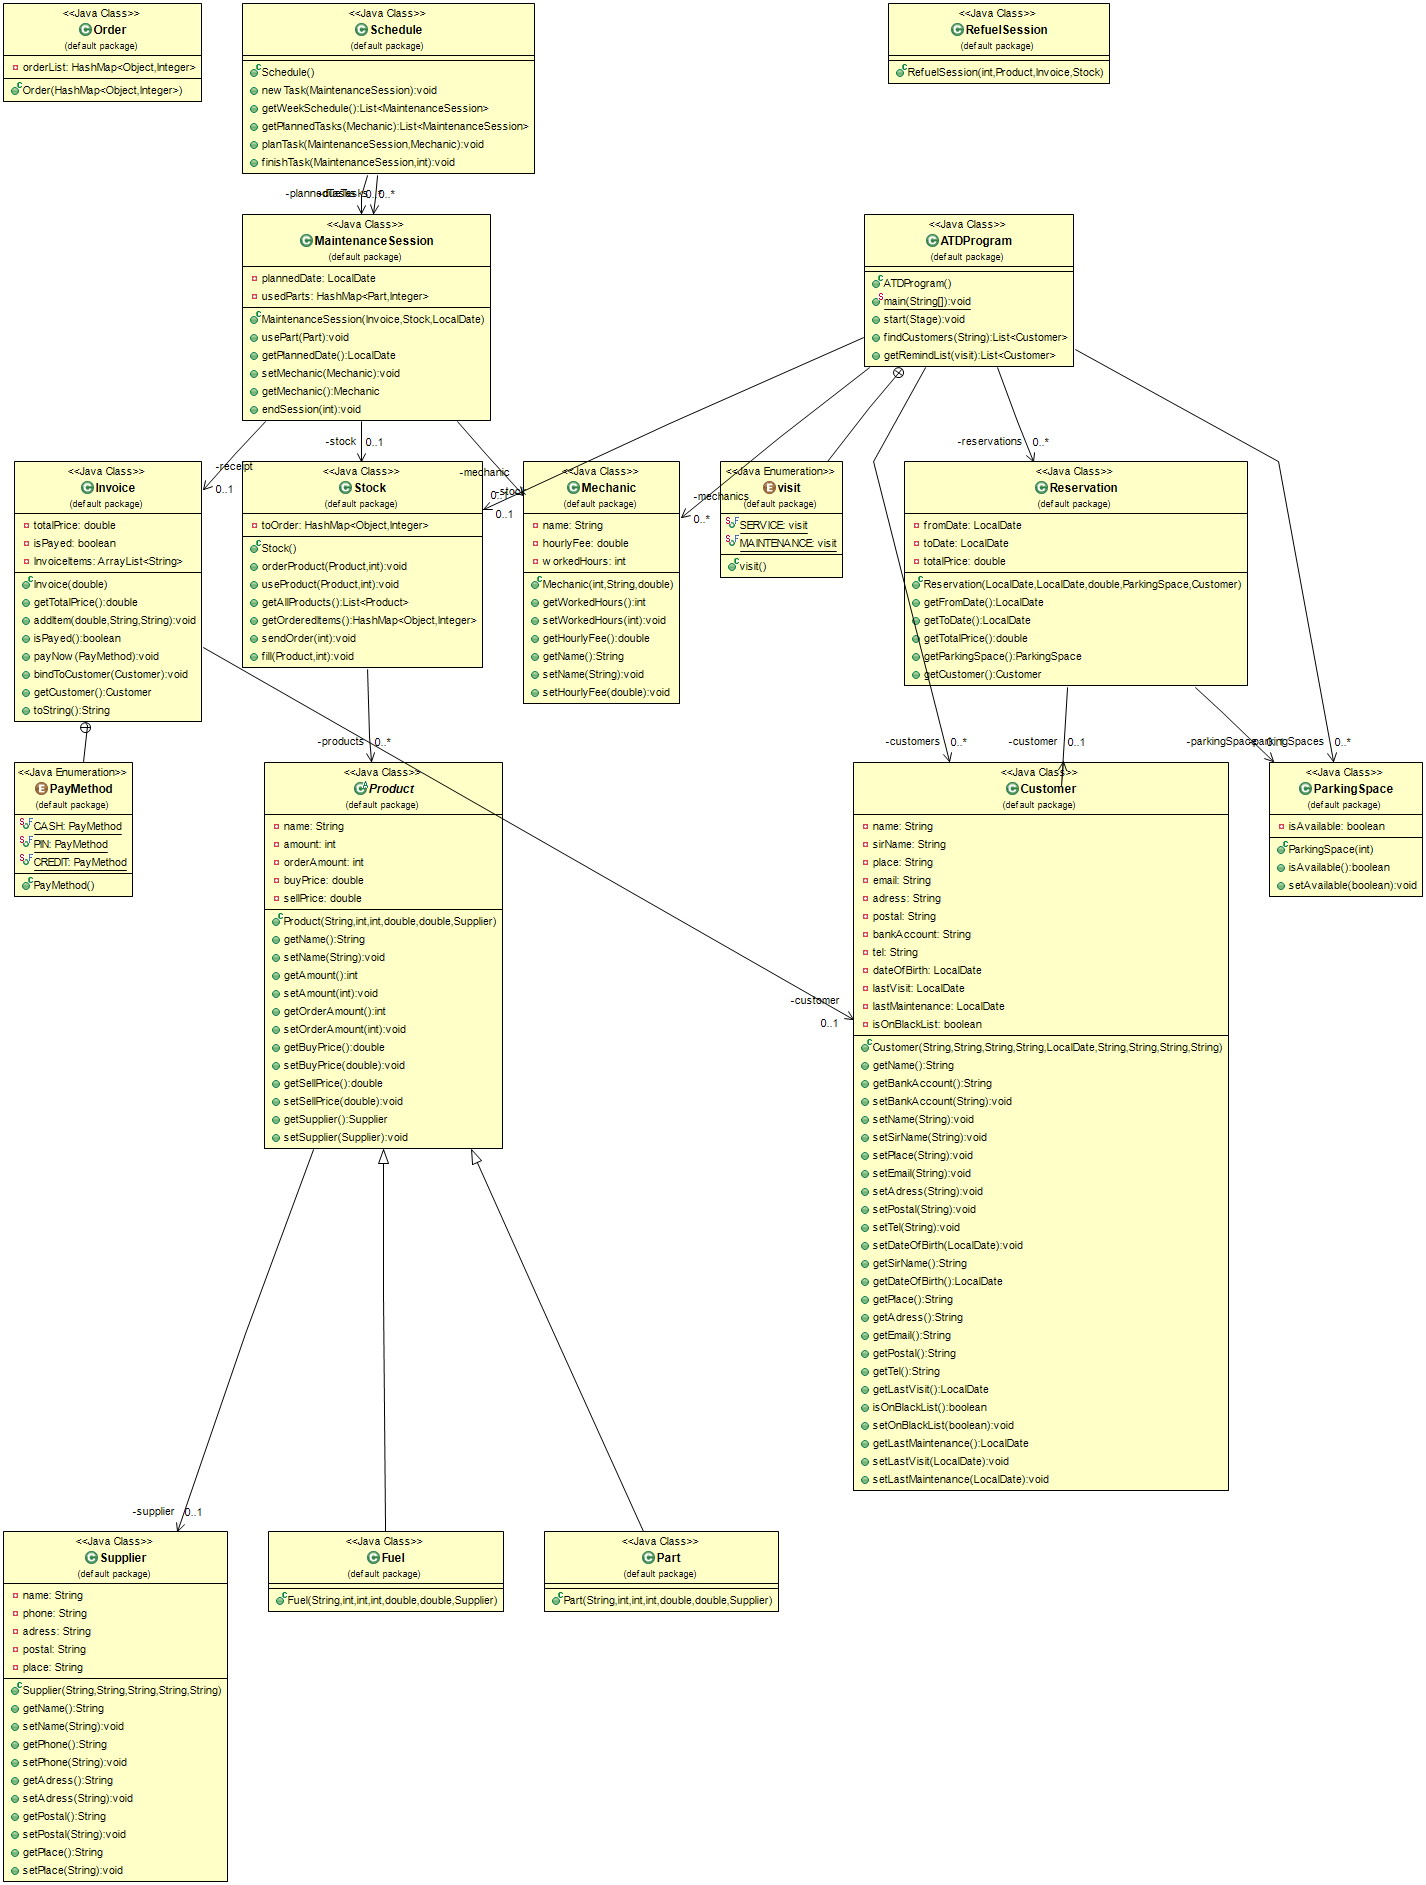
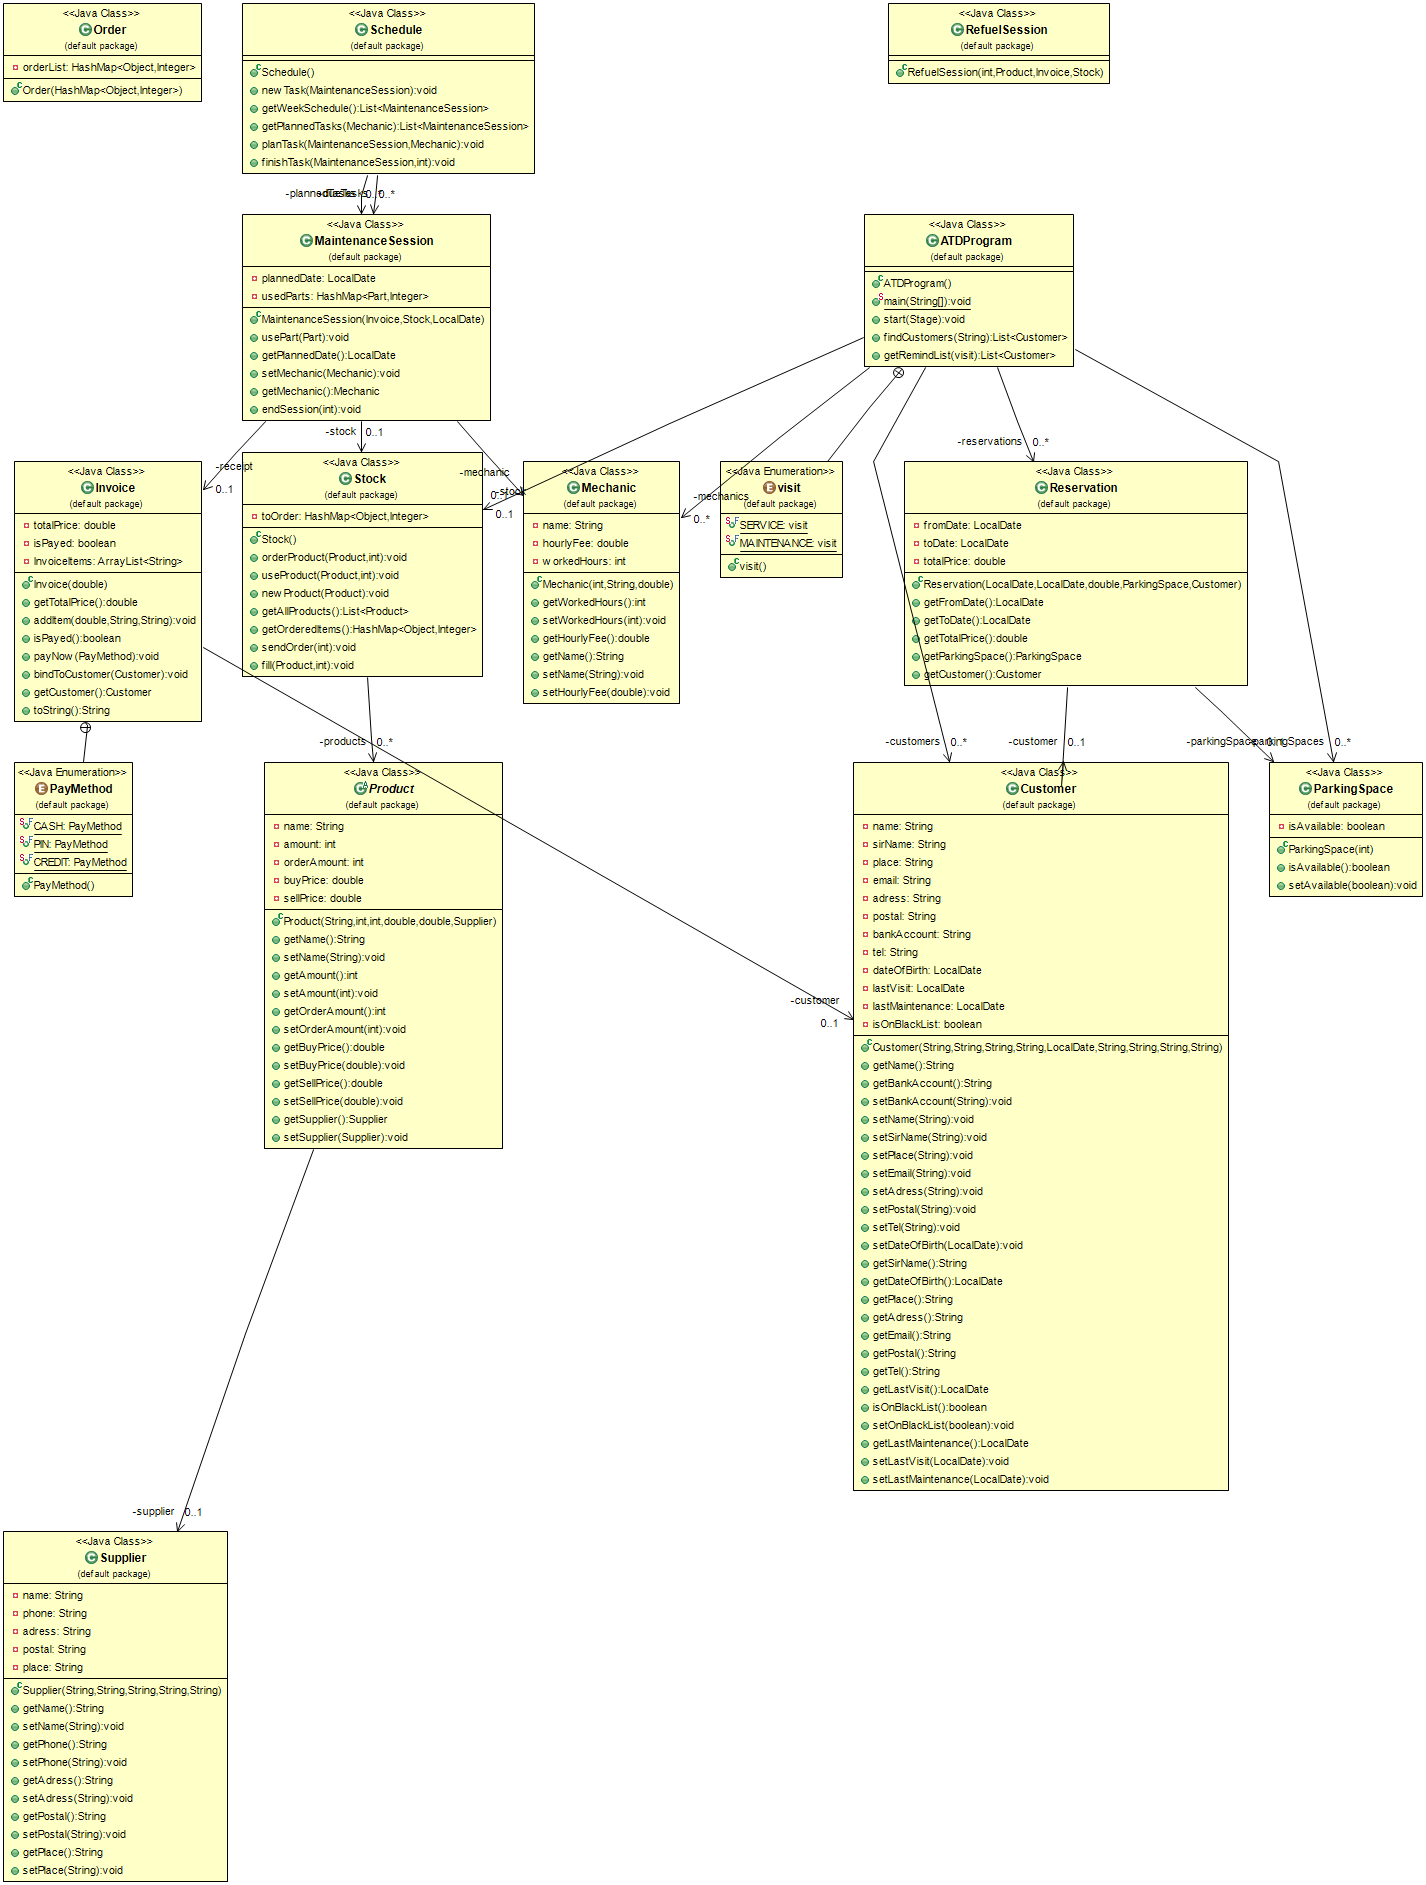
-deleted Fuuel and Part -made Product combine those

Changed region(s): [[0.1543, 0.2154, 0.3394, 0.4], [0.1851, 0.8, 0.5554, 0.8615]]

diff --git a/Themaopdracht/src/MaintenanceSession.java b/Themaopdracht/src/MaintenanceSession.java
@@ -8,17 +8,17 @@ public class MaintenanceSession {
 	private Invoice receipt;
 	private Stock stock;
 	private Mechanic mechanic;
-	private HashMap<Part, Integer> usedParts;
+	private HashMap<Product, Integer> usedParts;
 	public MaintenanceSession(Invoice receipt, Stock stock,LocalDate plannedDate) {
 
 		this.plannedDate = plannedDate;
 		this.stock = stock;
 		this.receipt = receipt;
-		usedParts = new HashMap<Part, Integer>();
+		usedParts = new HashMap<Product, Integer>();
 	}
-	public void usePart(Part part){
-		if(usedParts.containsKey(part)){
-			usedParts.put(part, usedParts.get(part)+1);
+	public void usePart(Product product){
+		if(usedParts.containsKey(product)){
+			usedParts.put(product, usedParts.get(product)+1);
 		}
 	}
 	public LocalDate getPlannedDate(){
@@ -34,9 +34,9 @@ public class MaintenanceSession {
 		if(receipt.getCustomer() != null)receipt.getCustomer().setLastMaintenance(LocalDate.now());
 		receipt.addItem(hours * mechanic.getHourlyFee(),"hourlyfee", ""+hours);	
 		mechanic.setWorkedHours(mechanic.getWorkedHours()+hours);
-		Iterator<Part> keySetIterator = usedParts.keySet().iterator();
+		Iterator<Product> keySetIterator = usedParts.keySet().iterator();
 		while(keySetIterator.hasNext()){
-			Part key = keySetIterator.next();
+			Product key = keySetIterator.next();
 			double price = key.getSellPrice() * usedParts.get(key);
 			stock.useProduct(key, usedParts.get(key));
 			receipt.addItem(price, key.getName(),""+usedParts.get(key));

diff --git a/Themaopdracht/src/Product.java b/Themaopdracht/src/Product.java
@@ -1,5 +1,5 @@
 
-public abstract class Product {
+public class Product {
 	private String name;
 	private int amount, orderAmount;
 	private double buyPrice, sellPrice;
